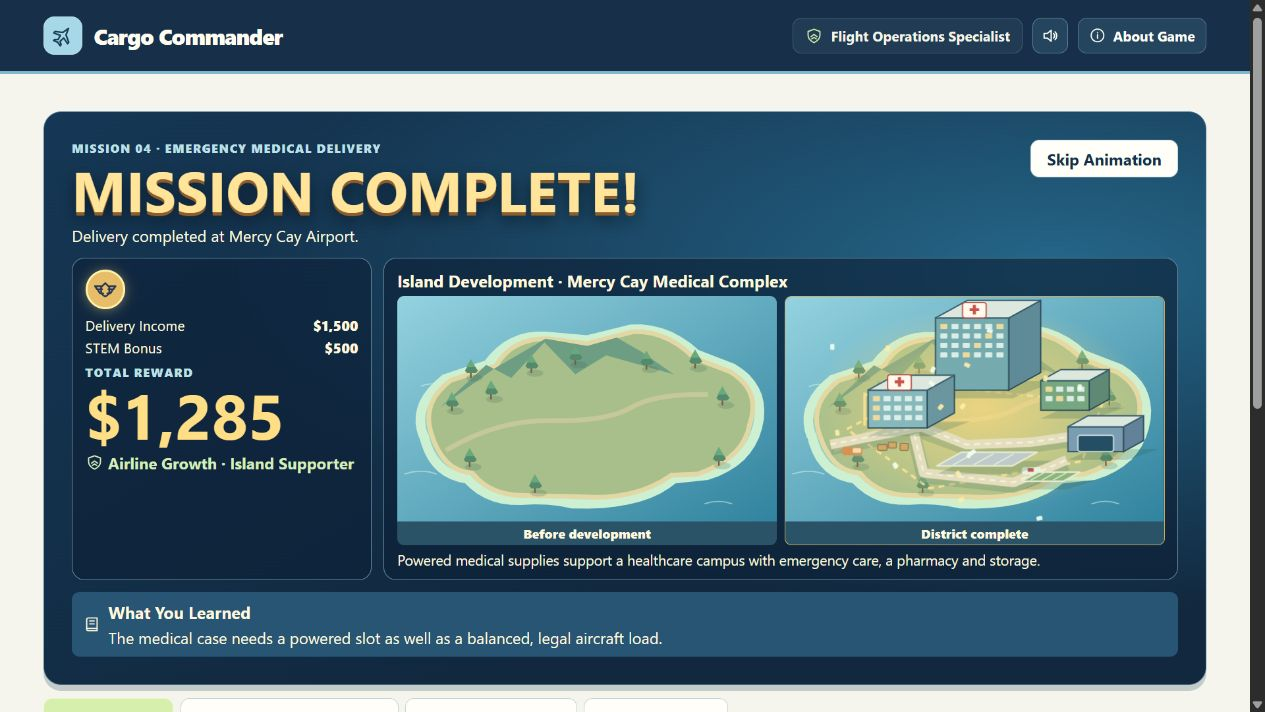
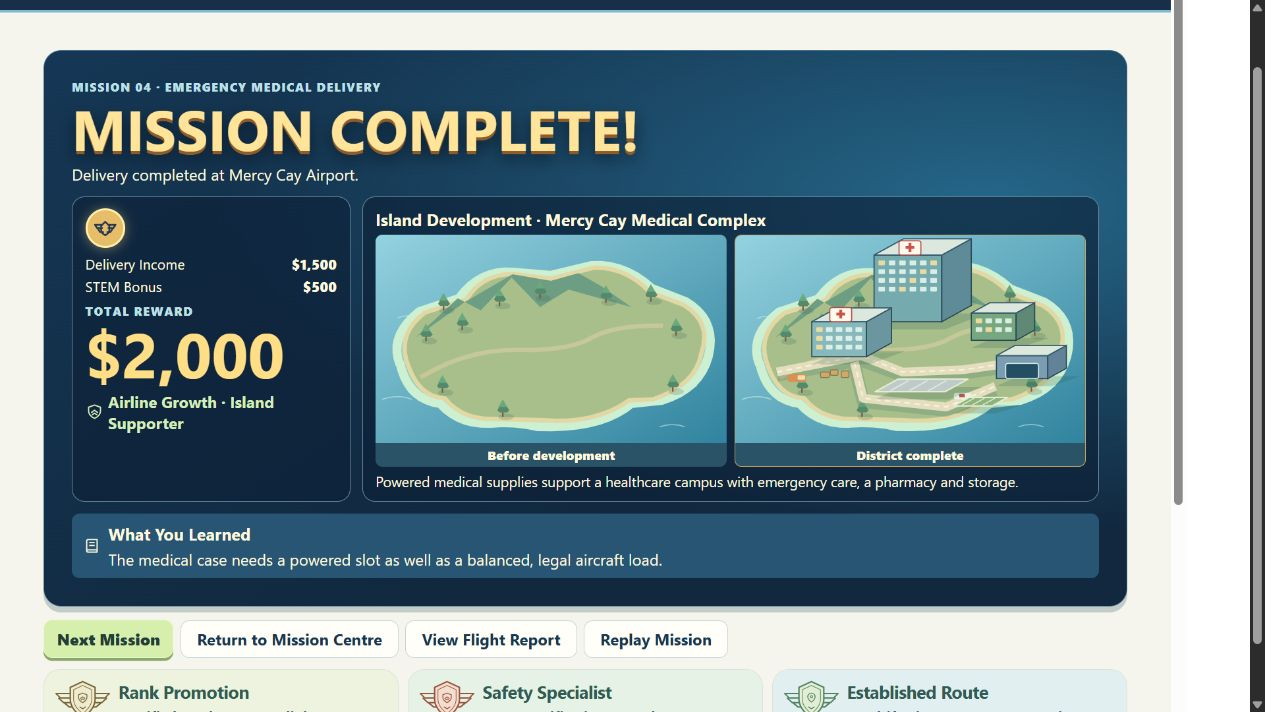
Record Phase 7.4 production verification [skip ci]

diff --git a/TEST_REPORT.md b/TEST_REPORT.md
@@ -127,3 +127,13 @@ The candidate passed **60 automated tests**, TypeScript checking and the Vite pr
 | Audio and accessibility | A Web Audio mock checked timed victory, construction, coin and badge cues, mute and stopping the reward group. Visual status, mode labels and numerical results remain readable alongside the audio. Playback loudness and listening quality on physical devices were not measured. |
 
 See the [gameplay gallery](README.md#gameplay-gallery) for the captured interfaces. The interval measures one browser walkthrough, and the science checks verify the in-game model and task performance. The revision has not been evaluated with a learner cohort, physical mobile devices, Safari or a full screen-reader audit.
+
+### Phase 7.4 public deployment verification
+
+On 24 November 2026, the [GitHub Actions build and deploy jobs](https://github.com/Bruce666-ppp/IDAT7220FinalGame/actions/runs/45330800586) succeeded for release commit [`b409639`](https://github.com/Bruce666-ppp/IDAT7220FinalGame/commit/b409639ea1d93d6e7ca4ecc3f8d83377c4610011). The [public game](https://bruce666-ppp.github.io/IDAT7220FinalGame/), JavaScript and CSS each returned HTTP 200 without authentication. Both asset names matched the local production artefact.
+
+- The public Home page and in-game About Game displayed all five outcomes. An isolated browser profile with zero official earnings completed the public beginner training and skipped its reward animation. The final sample reward remained visible and the campaign earned $0.
+- The same profile read the 4.56 m CG, earned the optional bonus and completed the first delivery through Quick Flight Verification. The reward showed $400 income and $100 STEM Bonus. After a reload, the Mission Centre still showed $500 and one developed district.
+- The public audio switch toggled to off and stayed off after a reload. It was then switched back on for the remainder of the test. The automated Web Audio checks covered the sequencing of effects.
+- The public player created a two-crate challenge after one official delivery. It earned Mission Architect and the one-time creative reward. A second browser storage partition opened the generated public link, saved the mission and completed it with the two crates in the opposite order at a 390-pixel viewport. The six slot controls were each 44 CSS pixels high, with no overlap or horizontal overflow.
+- The second profile held three official deliveries and Mission Architect from Phase 7.3. Migration showed $3,900 and three districts, comprising $1,900 in base income and the $2,000 creative reward. The fourth delivery added its $1,500 income and $500 STEM Bonus. The [Mercy Cay screenshot](docs/screenshots/phase74-mercy-cay.jpg) shows the final $2,000 and the completed campus on the public site.
